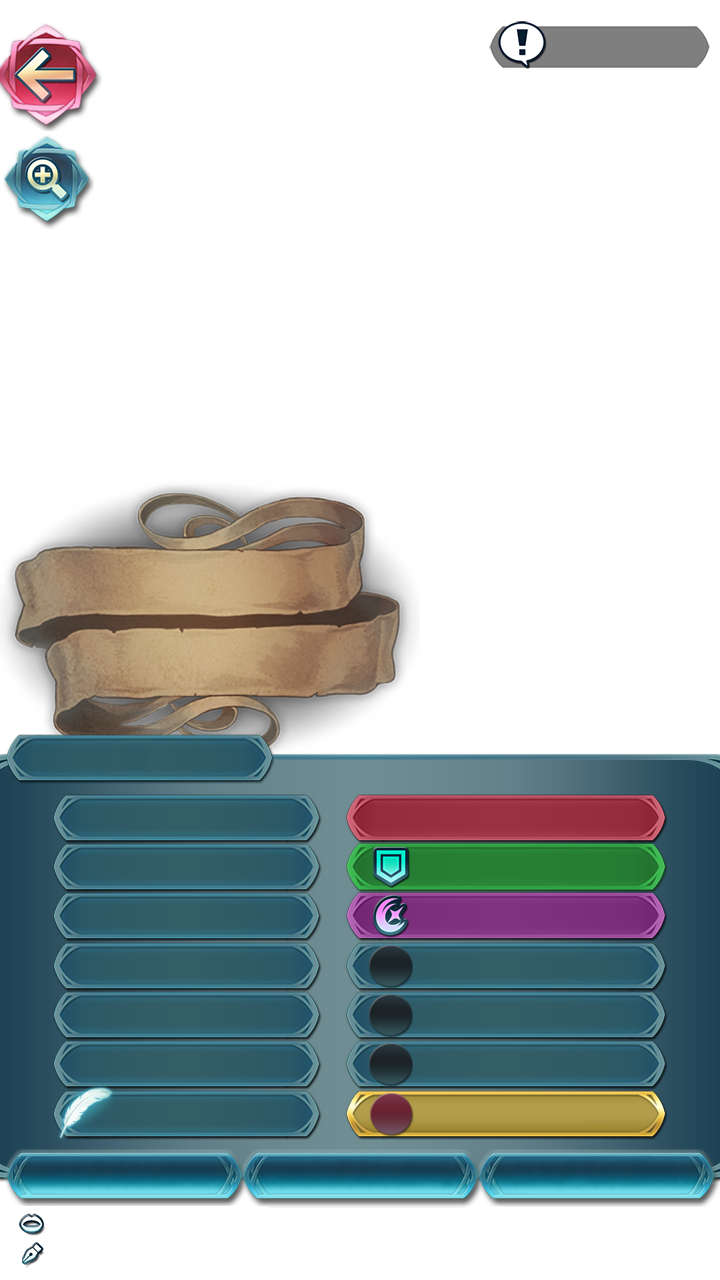
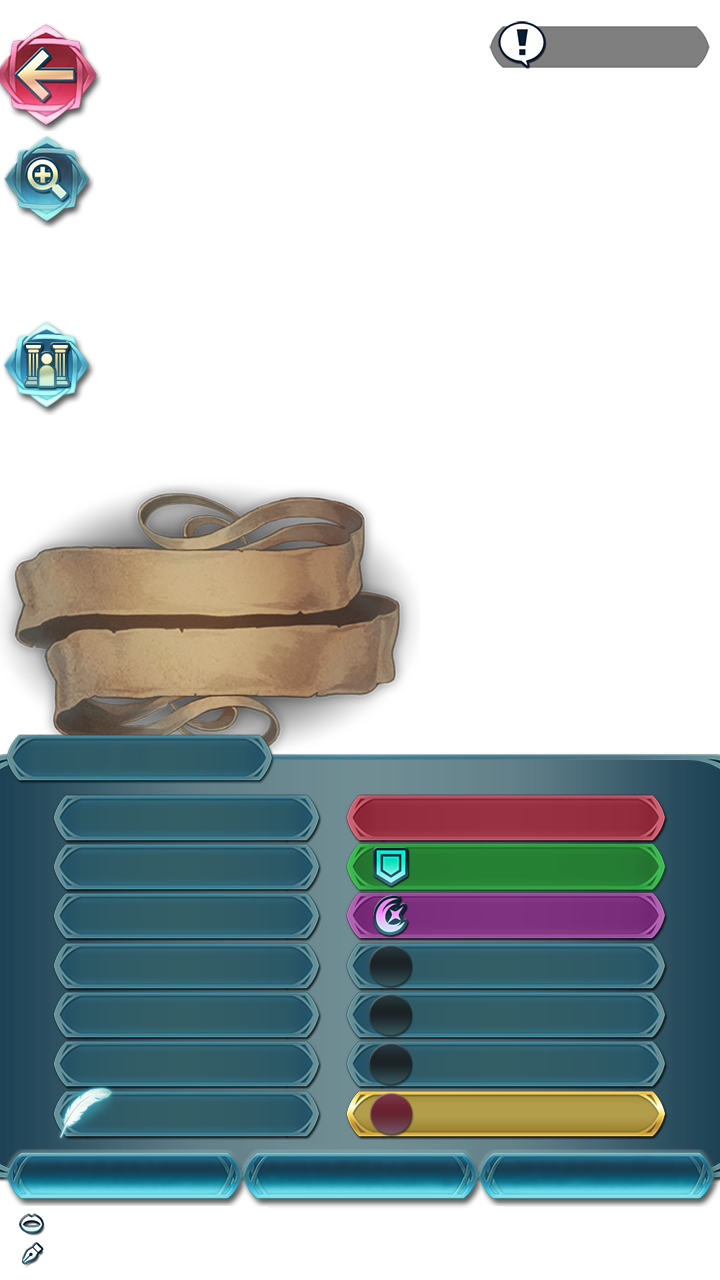
online & custom: Support new unit backgrounds

Changed region(s): [[0.0, 0.25, 0.1222, 0.3438]]

diff --git a/static/online/index.html b/static/online/index.html
@@ -42,7 +42,7 @@
 					</div>
 					<div class="row-property">
 						<img class="imagelabel" src="/common/assets/language.webp" title="Language"/>
-						<select class="select-without-search" id="language" onchange="getlang(); populateall(false); statictranslations(); reload()">
+						<select class="select-without-search single" id="language" onchange="getlang(); populateall(false); statictranslations(); reload()">
 							<option value="USEN" selected>English (America)</option>
 							<option value="EUEN">English (UK)</option>
 							<option value="EUDE">Deutsch</option>
@@ -68,13 +68,13 @@
 					</div>
 					<div class="row-property">
 						<img class="imagelabel" src="/common/assets/resplendent.webp" title="Attire"/>
-						<select class="select-without-search" onchange="reload()" id="attire">
+						<select class="select-without-search double" onchange="reload()" id="attire">
 							<option value="Normal">Normal</option>
 							<option value="Resplendent">Resplendent</option>
 							<option value="Stats-Only">Stats-Only</option>
 						</select>
 						<img class="imagelabel" src="/common/assets/rarity.webp" title="Rarity"/>
-						<select class="select-without-search" onchange="reload()" id="rarity">
+						<select class="select-without-search double" onchange="reload()" id="rarity">
 							<option value="1">1★</option>
 							<option value="2">2★</option>
 							<option value="3">3★</option>
@@ -85,12 +85,12 @@
 					</div>
 					<div class="row-property">
 						<img class="imagelabel" src="/common/assets/beasts.webp" title="Beast transformation"/>
-						<select class="select-without-search" onchange="reload()" id="beast">
+						<select class="select-without-search double" onchange="reload()" id="beast">
 							<option value="no">No</option>
 							<option value="yes">Yes</option>
 						</select>
 						<img class="imagelabel" src="/common/assets/summoner.webp" title="Summoner Support"/>
-						<select class="select-without-search" onchange="reload()" id="summoner">
+						<select class="select-without-search double" onchange="reload()" id="summoner">
 							<option value="None">No</option>
 							<option value="C">C</option>
 							<option value="B">B</option>
@@ -100,7 +100,7 @@
 					</div>
 					<div class="row-property">
 						<img class="imagelabel" src="/common/assets/merges.webp" title="Merges"/>
-						<select class="select-without-search" onchange="reload()" id="merges">
+						<select class="select-without-search double" onchange="reload()" id="merges">
 							<option value="0">0</option>
 							<option value="1">1</option>
 							<option value="2">2</option>
@@ -114,13 +114,13 @@
 							<option value="10">10</option>
 						</select>
 						<img class="imagelabel" src="/common/assets/flower.webp" title="Dragoflowers"/>
-						<select class="select-without-search" onchange="reload()" id="flowers">
+						<select class="select-without-search double" onchange="reload()" id="flowers">
 							<option value="0">0</value>
 						</select>
 					</div>
 					<div class="row-property">
 						<img class="imagelabel" src="/common/assets/boon.webp" title="Boon"/>
-						<select class="select-without-search" onchange="reload()" id="boons">
+						<select class="select-without-search double" onchange="reload()" id="boons">
 							<option value="None">-</option>
 							<option value="HP">HP</option>
 							<option value="Atk">Atk</option>
@@ -129,7 +129,7 @@
 							<option value="Res">Res</option>
 						</select>
 						<img class="imagelabel" src="/common/assets/bane.webp" title="Bane"/>
-						<select class="select-without-search" onchange="reload()" id="banes">
+						<select class="select-without-search double" onchange="reload()" id="banes">
 							<option value="None">-</option>
 							<option value="HP">HP</option>
 							<option value="Atk">Atk</option>
@@ -140,7 +140,7 @@
 					</div>
 					<div class="row-property">
 						<img class="imagelabel" src="/common/assets/ascendent.webp" title="Ascendent Stat" />
-						<select class="select-without-search" onchange="reload()" id="ascendent">
+						<select class="select-without-search double" onchange="reload()" id="ascendent">
 							<option value="None">-</option>
 							<option value="HP">HP</option>
 							<option value="Atk">Atk</option>
@@ -149,14 +149,14 @@
 							<option value="Res">Res</option>
 						</select>
 						<img class="imagelabel" src="/common/assets/bonus.webp" title="Bonus Unit" />
-						<select class="select-without-search" onchange="reload()" id="bonusunit">
+						<select class="select-without-search double" onchange="reload()" id="bonusunit">
 							<option value="no">No</option>
 							<option value="yes">Yes</option>
 						</select>
 					</div>
 					<div class="row-property">
 						<img class="imagelabel" src="/common/assets/blessings.webp" title="Blessings" />
-						<select class="select-without-search" id="blessing" onchange="reload()">
+						<select class="select-without-search single" id="blessing" onchange="reload()">
 							<option value="None">None</option>
 							<option value="1">Fire</option>
 							<option value="2">Water</option>
@@ -181,7 +181,7 @@
 					</div>
 					<div class="row-property">
 						<img class="imagelabel" src="/common/assets/refine.webp" title="Refine"/>
-						<select class="select-without-search" onchange="reload()" id="refine">
+						<select class="select-without-search single" onchange="reload()" id="refine">
 							<option value="None">None</option>
 						</select>
 					</div>
@@ -264,14 +264,14 @@
 					</div>
 					<div class="row-property">
 						<label for="artstyle"><img class="imagelabel" src="/common/assets/brush.webp" title="Art Style"/></label>
-						<select class="select-without-search" id="artstyle" onchange="reload()">
+						<select class="select-without-search double" id="artstyle" onchange="reload()">
 							<option value="Portrait">Portrait</option>
 							<option value="Attack">Attack</option>
 							<option value="Special">Special</option>
 							<option value="Damage">Damage</option>
 						</select>
 						<label for="template"><img class="imagelabel" src="/common/assets/template.webp" title="Unit Template"/></label>
-						<select class="select-without-search" id="template" onchange="reload()">
+						<select class="select-without-search double" id="template" onchange="reload()">
 							<option value="MyUnit">My Unit</option>
 							<option value="Condensed">Condensed</option>
 							<option value="Echoes">Echoes</option>
@@ -285,16 +285,22 @@
 					</div>
 					<div class="row-property">
 						<img class="imagelabel" src="/common/assets/mirror.webp" title="Art Mirroring"/>
-						<select class="select-without-search" id="mirror" onchange="reload()">
+						<select class="select-without-search double" id="mirror" onchange="reload()">
 							<option value="None">None</option>
 							<option value="Horizontal">Horizontal</option>
 							<option value="Vertical">Vertical</option>
 							<option value="Both">Horizontal + Vertical</option>
 						</select>
+						<img class="imagelabel" src="/common/assets/background.webp" title="Background"/>
+						<select class="select-without-search double" onchange="reload()" id="background">
+							<option value="base">Normal</option>
+							<option value="room">Room</option>
+							<option value="beach">Beach</option>
+						</select>
 					</div>
 					<div class="row-property">
 						<img class="imagelabel" src="/common/assets/favorite.webp" title="Favorite Mark"/>
-						<select class="select-without-search" id="favorite" onchange="reload()">
+						<select class="select-without-search double" id="favorite" onchange="reload()">
 							<option value="0">0</option>
 							<option value="1" selected>1</option>
 							<option value="2">2</option>
@@ -306,7 +312,7 @@
 							<option value="8">8</option>
 						</select>
 						<img class="imagelabel" src="/common/assets/veronica.webp" title="Accessory"/>
-						<select class="select-without-search" onchange="reload()" id="accessory">
+						<select class="select-without-search double" onchange="reload()" id="accessory">
 							<option value="None">None</option>
 							<option value="Hat">Hat</option>
 							<option value="Hair">Hair</option>

diff --git a/static/online/builder.css b/static/online/builder.css
@@ -138,7 +138,6 @@ h2 {
 }
 .select-without-search {
 	height: 2em;
-	width: 100%;
 	font-family: inherit;
 	font-size: inherit;
 	background-color: white;
@@ -216,6 +215,13 @@ h2 {
 	cursor: pointer;
 }
 
+.select-without-search.single {
+	width: 100%;
+}
+.select-without-search.double {
+	width: 6.45em;
+}
+
 #usedallies {
 	margin-top: 0.5em;
 	column-count: 2;
@@ -223,7 +229,7 @@ h2 {
 
 #selectheroes, #weapon, #special, #assist, #Askill, #Bskill, #Cskill, #Sskill {
 	--collapsed-select-height: 1.8em;
-	--select-width: 16.7em;
+	--select-width: 100%;
 	--list-item-max: 6;
 	--list-item-height: 2em;
 	--font-color: #444;
@@ -233,7 +239,7 @@ h2 {
 }
 #allies {
 	--collapsed-multiselect-height: 2em;
-	--select-width: 40.4em;
+	--select-width: 100%;
 	--list-item-max: 5;
 	--list-item-height: 2em;
 	--font-color: #444;
@@ -251,12 +257,6 @@ h2 {
 	}
 	.additionaloptions {
 		padding-bottom: 0.8em;
-	}
-	#selectheroes, #weapon, #special, #assist, #Askill, #Bskill, #Cskill, #Sskill {
-		--select-width: 100%;
-	}
-	#allies {
-		--select-width: 22.7em;
 	}
 }
 @media only screen and (min-resolution: 150dpi) and (max-aspect-ratio: 10/6) {
@@ -292,10 +292,7 @@ h2 {
 	.additionaloptions {
 		padding-bottom: 1em;
 	}
-	#selectheroes, #weapon, #special, #assist, #Askill, #Bskill, #Cskill, #Sskill {
-		--select-width: calc(90vw - 6em);
-	}
-	#allies {
-		--select-width: calc(90vw - 3em);
+	.select-without-search.double {
+		width: 100%;
 	}
 }

diff --git a/static/online/form.js b/static/online/form.js
@@ -41,6 +41,7 @@ selectartstyle = document.getElementById('artstyle');
 selectoffsetY = document.getElementById('offsetY');
 selectoffsetX = document.getElementById('offsetX');
 selectmirror = document.getElementById('mirror');
+selectbackground = document.getElementById('background');
 selectfavorite = document.getElementById('favorite');
 selectaccessory = document.getElementById('accessory');
 selectlanguage = document.getElementById('language');
@@ -655,6 +656,7 @@ function reset(section) {
 			selectoffsetX.value = "0";
 			selectoffsetY.value = "0";
 			selectmirror.value = "None";
+			selectbackground.value = "base"
 			selectfavorite.value = "1";
 			selectaccessory.value = "None";
 		break;

diff --git a/static/custom/index.html b/static/custom/index.html
@@ -493,6 +493,12 @@
 							<option value="Vertical">Vertical</option>
 							<option value="Both">Horizontal + Vertical</option>
 						</select>
+						<img class="imagelabel" src="/common/assets/background.webp" title="Background"/>
+						<select class="select-without-search double" onchange="reload()" id="background">
+							<option value="base">Normal</option>
+							<option value="room">Room</option>
+							<option value="beach">Beach</option>
+						</select>
 					</div>
 					<div class="row-property">
 						<label for="expand"><img class="imagelabel" src="/common/assets/expand.webp" title="Expand/Reduce image"/></label>

diff --git a/static/online/imagerender.js b/static/online/imagerender.js
@@ -558,8 +558,8 @@ async function myunit() {
 	var language = selectlanguage.value;
 
 	// Print the background depending on the type of support
-	var background = selectsummoner.value == "None" ? "bgnosupport" : "bgsupport";
-	await getimage(other["images"]["other"][background]).then(img => {
+	var background = selectbackground.value + (selectsummoner.value == "None" ? "normal" : "support");
+	await getimage(other["images"]["backgrounds"][background]).then(img => {
 		preview.drawImage(img, -173, 0, 1067, 1280);
 	});
 

diff --git a/static/custom/imagerender.js b/static/custom/imagerender.js
@@ -32,8 +32,8 @@ async function reload() {
 	preview.miterLimit = 2;
 
 	// Print the background depending on the type of support
-	var background = selectsummoner.value == "None" ? "bgnosupport" : "bgsupport";
-	await getimage(other["images"]["other"][background]).then(img => {
+	var background = selectbackground.value + (selectsummoner.value == "None" ? "normal" : "support");
+	await getimage(other["images"]["backgrounds"][background]).then(img => {
 		preview.drawImage(img, -173, 0, 1067, 1280);
 	});
 

diff --git a/static/custom/form.js b/static/custom/form.js
@@ -44,6 +44,7 @@ selectart = document.getElementById('art');
 selectoffsetY = document.getElementById('offsetY');
 selectoffsetX = document.getElementById('offsetX');
 selectmirror = document.getElementById('mirror');
+selectbackground = document.getElementById('background');
 selectexpand = document.getElementById('expand');
 selectfavorite = document.getElementById('favorite');
 selectaccessory = document.getElementById('accessory');

diff --git a/scripts/downloadimages.py b/scripts/downloadimages.py
@@ -385,9 +385,14 @@ icons = {
 	"blue_orb": "https://static.wikia.nocookie.net/feheroes_gamepedia_en/images/b/bc/Blue_Orb.png?160?160",
 	"green_orb": "https://static.wikia.nocookie.net/feheroes_gamepedia_en/images/d/d7/Green_Orb.png?160?160",
 	"colorless_orb": "https://static.wikia.nocookie.net/feheroes_gamepedia_en/images/4/4e/Colorless_Orb.png?160?160",
+	# BGs
+	"basenormalbg": "https://static.wikia.nocookie.net/feheroes_gamepedia_en/images/9/9d/BG_DetailedStatus.png?1067?1280",
+	"basesummonerbg": "https://static.wikia.nocookie.net/feheroes_gamepedia_en/images/5/5c/Summoner_Support_Background.png?1067?1280",
+	"roomnormalbg": "https://static.wikia.nocookie.net/feheroes_gamepedia_en/images/c/c9/Bg_DetailedStatus_Ask.webp?1067?1280",
+	"roomsummonerbg": "https://static.wikia.nocookie.net/feheroes_gamepedia_en/images/f/fc/Bg_DetailedStatus_Ask_Reliance.webp?1067?1280",
+	"beachnormalbg": "https://static.wikia.nocookie.net/feheroes_gamepedia_en/images/9/90/Bg_DetailedStatus_Beach.webp?1067?1280",
+	"beachsummonerbg": "https://static.wikia.nocookie.net/feheroes_gamepedia_en/images/b/b3/Bg_DetailedStatus_Beach_Reliance.webp?1067?1280",
 	# Other
-	"normalbg": "https://static.wikia.nocookie.net/feheroes_gamepedia_en/images/9/9d/BG_DetailedStatus.png?1067?1280",
-	"summonerbg": "https://static.wikia.nocookie.net/feheroes_gamepedia_en/images/5/5c/Summoner_Support_Background.png?1067?1280",
 	"summoningaltar": "https://static.wikia.nocookie.net/feheroes_gamepedia_en/images/4/42/BG_Summon_Stone.png?1067?1280",
 	"resplendent": "https://static.wikia.nocookie.net/feheroes_gamepedia_en/images/b/b8/Icon_GodWear_L.png?82?82",
 	"resplendent-small": "https://static.wikia.nocookie.net/feheroes_gamepedia_en/images/d/d9/Icon_GodWear.png?83?78"
